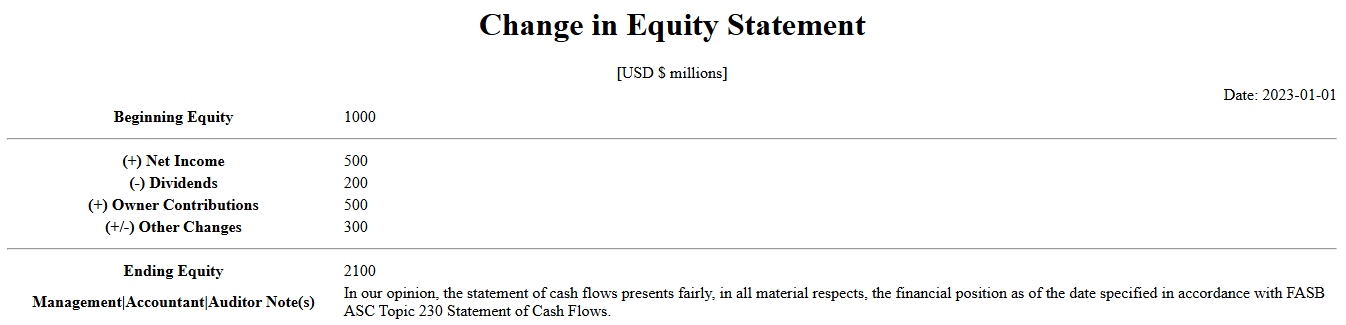
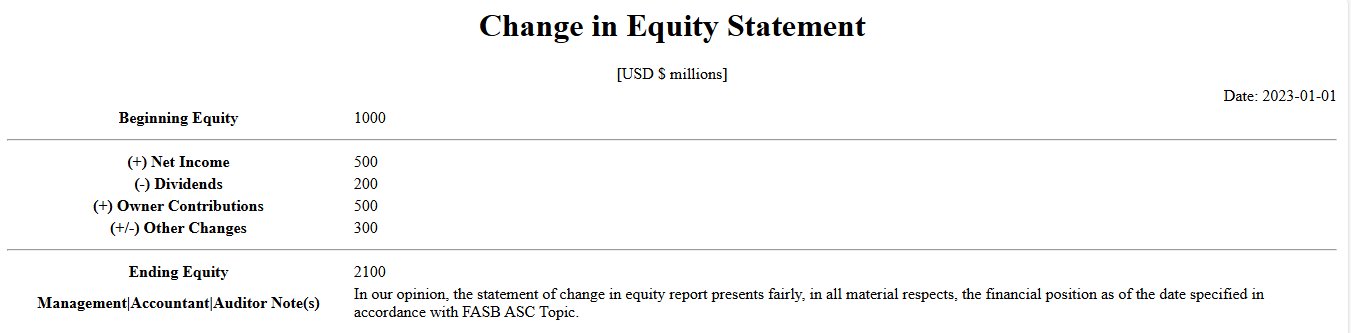
updated statement-of-cash-flows

diff --git a/packages/bestbooks-reports/statementChangeOfEquity.js b/packages/bestbooks-reports/statementChangeOfEquity.js
@@ -37,6 +37,51 @@ class StatementChangeInEquity extends BaseReport {
         super();
     }
 
+    saveReport(name, contents, type="xml",callback=null){
+        const filePath = path.join(os.homedir(),`.bestbooks/${name}.${type}`);
+        // the xslt-processor does not support the XSLT syntax xsl:for-each-group, 
+        // so the XML generated is returned,
+        // using a free tool like https://xslttest.appspot.com/, 
+        // to copy the .bestbooks/balance-sheet.xslt and .bestbooks/balance-sheet.xml
+        // to render a HTML
+        // TODO: implement xsl:for-each-group. callback(format("balanceSheet",formattedData));
+
+        fs.writeFileSync(filePath, contents);
+        callback(filePath)
+    }
+
+    async saveReportSync(name, html, type) {
+        return new Promise((resolve,reject) => {
+            try {
+                this.saveReport(name, html, type, function(filePath){
+                    resolve(filePath);
+                })    
+            } catch(error) {
+                reject(error);
+            }
+        })
+    }
+
+    async formatHtml(formattedData) {
+        return format('statementChangeInEquity',formattedData);
+    }
+
+    async formatXml(contents) {
+        return array2xml('statementChangeInEquity',contents);
+    }
+
+    async formatArray(data,notes) {
+        var _data = {};
+
+        Object.keys(data).forEach(function(key){
+            _data[key] = data[key];
+        })
+
+        _data["notes"] = notes;
+        
+        return _data;
+    }
+
     createReport(startDate,endDate,_format,callback,notes="") {
         this.retrieveReportData(startDate, endDate, function(data){
             if (_format == "array") {
@@ -136,27 +181,11 @@ class StatementChangeInEquity extends BaseReport {
     }
 
     async retrieveReportDataSync(startDate,endDate) {
-        return new Promise((resolve, reject) => {
-            this.retrieveReportData(startDate, endDate, function(err, results) {
-                if (err) {
-                    reject(err);
-                } else {
-                    resolve(results);
-                }
-            });
-        });
+        
     }
 
     async retrieveEquityMovementDataSync(startDate,endDate) {
-        return new Promise((resolve, reject) => {
-            this.retrieveEquityMovementData(startDate, endDate, function(err, results) {
-                if (err) {
-                    reject(err);
-                } else {
-                    resolve(results);
-                }
-            });
-        });
+        return this.statementOfChangesInEquitySync(startDate,endDate);
     }
 }
 

diff --git a/packages/bestbooks-reports/test/statementofchangeinequity.test.js b/packages/bestbooks-reports/test/statementofchangeinequity.test.js
@@ -83,7 +83,7 @@ describe('Statement of Change in Equity Report',function(){
     })
 
     it("should format data into array",async() => {
-        const notes = `In our opinion, the statement of cash flows presents fairly, in all material respects, the financial position as of the date specified in accordance with FASB ASC Topic 230 Statement of Cash Flows.`;
+        const notes = `In our opinion, the statement of change in equity report presents fairly, in all material respects, the financial position as of the date specified in accordance with FASB ASC Topic.`;
         const expected = {
             equity_component: 'Equity',
             type: 'Equity',
@@ -94,7 +94,7 @@ describe('Statement of Change in Equity Report',function(){
             other_adjustments: 300,
             ending_balance: 2100,
             txdate: '2023-01-01',
-            notes: 'In our opinion, the statement of cash flows presents fairly, in all material respects, the financial position as of the date specified in accordance with FASB ASC Topic 230 Statement of Cash Flows.'
+            notes: 'In our opinion, the statement of change in equity report presents fairly, in all material respects, the financial position as of the date specified in accordance with FASB ASC Topic.'
         };
         formattedData = await report.formatArray(data[0],notes);
         assert.deepStrictEqual(formattedData,expected)
@@ -112,7 +112,7 @@ describe('Statement of Change in Equity Report',function(){
     <other_adjustments>300</other_adjustments>
     <ending_balance>2100</ending_balance>
     <txdate>2023-01-01</txdate>
-    <notes>In our opinion, the statement of cash flows presents fairly, in all material respects, the financial position as of the date specified in accordance with FASB ASC Topic 230 Statement of Cash Flows.</notes>
+    <notes>In our opinion, the statement of change in equity report presents fairly, in all material respects, the financial position as of the date specified in accordance with FASB ASC Topic.</notes>
 </statementChangeInEquity>`;
         xml = await report.formatXml(formattedData);
         assert.deepStrictEqual(xml,expected);
@@ -123,7 +123,7 @@ describe('Statement of Change in Equity Report',function(){
         assert.strictEqual(path.basename(filePath),"statementChangeInEquity.xml");
     })
 
-    it("should format the statement of cash flows report",async() => {
+    it("should format the statement of change in equity report",async() => {
         html = await report.formatHtml(xml);
     })
 
